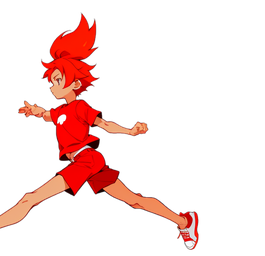
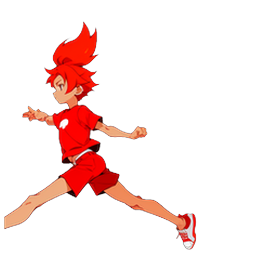
修复动作乱颠：身高包络归一 + 弹跳收敛
- 四帧美术的人物身高包络相位错乱（过腿帧最低、蹬伸帧最高），叠加 5Hz/8px 的代码弹跳导致头部每 0.1s 颠 12px
- 按相位包络归一各帧身高（接触 86 → 过腿 84 → 蹬伸 88 → 腾空 92，绕脚底等比缩放不滑步）
- 代码弹跳降至 3px 只做细微补充；骑乘颠簸频率 0.75 → 0.4（约 2 次/秒）、幅度 3px

Changed region(s): [[0.0, 0.0312, 0.7547, 1.0]]

diff --git a/jump-runner/js/player.js b/jump-runner/js/player.js
@@ -179,7 +179,7 @@ class Player {
         const mi = actorImg(skin.sprite, 'ride-' + mountId);
         if (mi) {
           // 骑乘动感：车轮旋转 + 缓慢颠簸（约 1.7Hz）+ 车身小幅倾斜摇摆（约 1.2Hz）
-          const rb = this.grounded ? -Math.abs(Math.sin(this.run * 0.75)) * 4 : 0;
+          const rb = this.grounded ? -Math.abs(Math.sin(this.run * 0.4)) * 3 : 0;
           const rt = this.grounded ? Math.sin(this.run * 0.5) * 0.022 : 0;
           // 图片包围盒底 ≠ 车轮接地点（骑手脚/踏板更低），按接地下沉修正
           const inset = RIDE_GROUND_INSET[mountId] || 0;
@@ -249,7 +249,7 @@ class Player {
         // 步行/滑铲/空中：超采样姿势画布（落地挤压拉伸作用于贴图）
         const bodyC = poseCanvas(skin, poseKey, (pc) => Player.drawChibi(pc, skin, chibiOpts));
         // 跑步上下起伏：每步一次弹跳（腾空相整体抬高，触地相贴地），否则像滑行
-        const bob = this.grounded && this.slide <= 0 ? -Math.abs(Math.sin(this.run)) * 8 : 0;
+        const bob = this.grounded && this.slide <= 0 ? -Math.abs(Math.sin(this.run)) * 3 : 0; // 美术帧已含身高包络，只补细微起伏
         ctx.save();
         ctx.translate(x, y + bob);
         ctx.scale(this.sx, this.sy);
